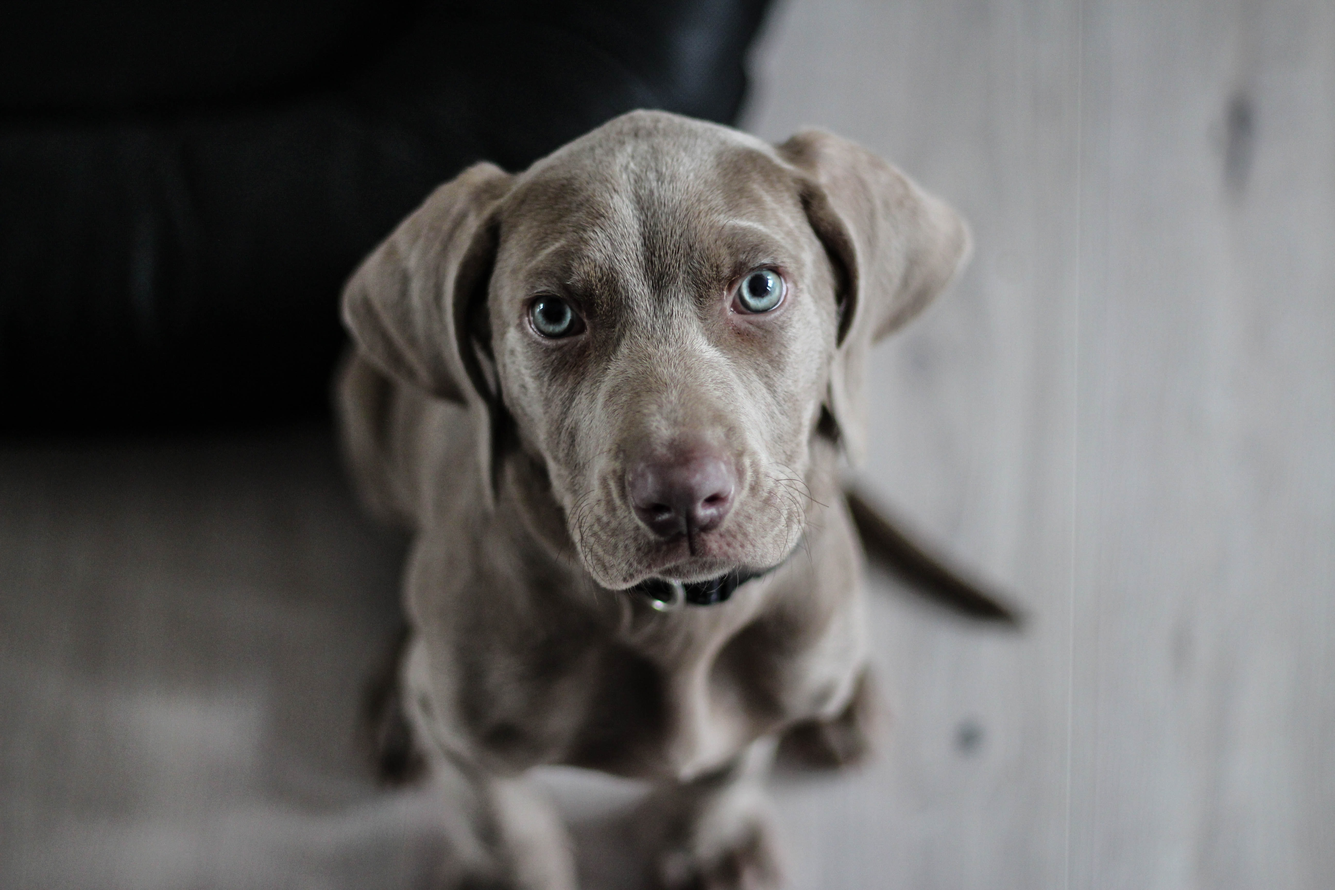
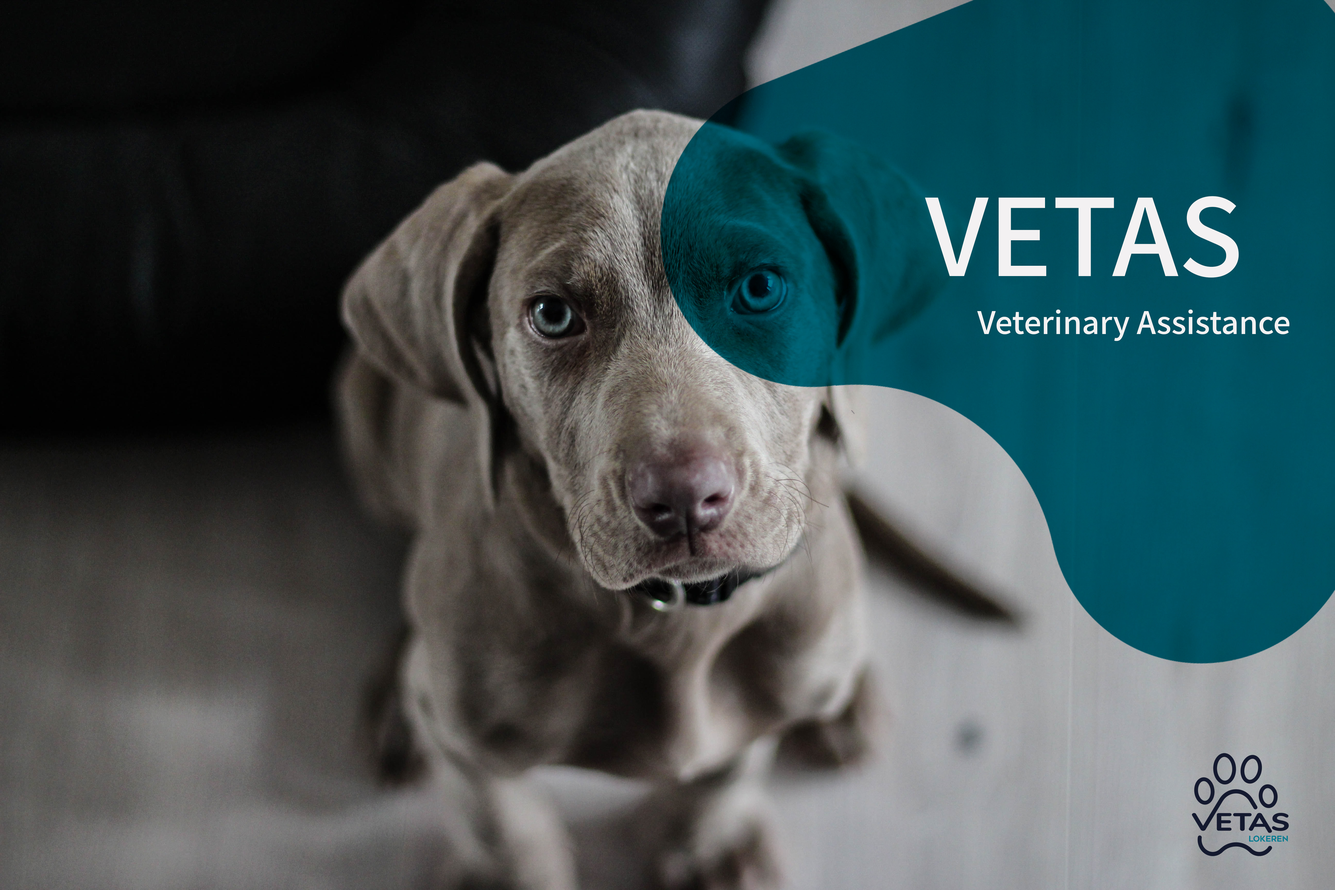
test

Changed region(s): [[0.4688, 0.0, 1.0, 0.75], [0.875, 0.8438, 0.9688, 0.9688]]

diff --git a/pages/index.html b/pages/index.html
@@ -19,20 +19,51 @@ permalink: /
 				  </a>
 	  </div>
 	  <div id="full">
-		  <h3>Merkverhaal</h3>
-		  <p class="">Vetas is een organisatie waar u steeds op kan rekenen wanneer uw dier in problemen zit.</p>
+		  <h2 class="home_titel1">Merkverhaal</h2>
+		  	<p class="">Vetas is een organisatie waar u steeds op kan rekenen wanneer uw dier in problemen zit.</p>
+		  	
+		  <hr>
 
-		  <h3>Logo</h3>
-		  <p class="">Vetas is een organisatie waar u steeds op kan rekenen wanneer uw dier in problemen zit.</p>
+		  <h2 class="home_titel2">Logo</h2>
+			  <p class="">Vind hier meer uitleg over het gebruik van het logo.</p>
+			  <button type="button" class="btn btn-outline-info">
+					<a class="nav-link" href="/1718-3CMO-BaP-ambevanh1/logo/index"  title="logo" >LEES MEER</a>
+			  </button>
+		  <hr>
 
-		  <h3>Kleur</h3>
-		  <p class="">Vetas is een organisatie waar u steeds op kan rekenen wanneer uw dier in problemen zit.</p>
+		  <h2 class="home_titel3">Kleur</h2>
+			  <p class="">Ontdek hier ons kleurenpalet.</p>
+			  <button type="button" class="btn btn-outline-info">
+					<a class="nav-link" href="/1718-3CMO-BaP-ambevanh1/kleur/index"  title="kleur" >LEES MEER</a>
+			  </button>
+		  <hr>
 
-		  <h3>Typografie</h3>
-		  <p class="">Vetas is een organisatie waar u steeds op kan rekenen wanneer uw dier in problemen zit.</p>
+		  <h2 class="home_titel4">Typografie</h2>
+			  <p class="">De typografie geeft vorm aan de betekenis van onze woorden. Lees hier alles over door verder te klikken.</p>
+			  <button type="button" class="btn btn-outline-info">
+					<a class="nav-link" href="/1718-3CMO-BaP-ambevanh1/stijlgids"  title="typografie" >LEES MEER</a>
+			  </button>
+		  <hr>
 
-		  <h3>Toepassingen</h3>
-		  <p class="">Vetas is een organisatie waar u steeds op kan rekenen wanneer uw dier in problemen zit.</p>
+		  <h2 class="home_titel5">Fotografie</h2>
+			  <p class="">Vetas is een organisatie waar u steeds op kan rekenen wanneer uw dier in problemen zit.</p>
+			  <button type="button" class="btn btn-outline-info">
+					<a class="nav-link" href="/1718-3CMO-BaP-ambevanh1/logo/index"  title="logo" >LEES MEER</a>
+			  </button>
+		  <hr>
+
+		  <h2 class="home_titel6">Toepassingen</h2>
+			  <p class="">Vetas is een organisatie waar u steeds op kan rekenen wanneer uw dier in problemen zit.</p>
+			  <button type="button" class="btn btn-outline-info">
+					<a class="nav-link" href="/1718-3CMO-BaP-ambevanh1/logo/index"  title="logo" >LEES MEER</a>
+			  </button>
+		  <hr>
+
+		  <h2 class="home_titel7">Downloads</h2>
+			  <p class="">Download hier het logo en alle varianten.</p>
+			  <button type="button" class="btn btn-outline-info">
+					<a class="nav-link" href="/1718-3CMO-BaP-ambevanh1/logo/index"  title="logo" >LEES MEER</a>
+			  </button>
 
 	  </div> 
 

diff --git a/_sass/_custom.scss b/_sass/_custom.scss
@@ -71,13 +71,88 @@
 }
 
 .home_afbeelding {
-  width: 1350px;
-  margin: 0px -150px;
+  width: 1450px;
+  margin: -66px -390px;
   position: absolute;
   left: 0px;
   top: 0px;
-  z-index: -1;
+  
 }
+
+.home_titel1 {
+  font-size: 45px;
+  margin-top: 150px;
+  margin-bottom: 40px;
+}
+
+.home_titel2 {
+  font-size: 45px;
+  margin-top: 85px;
+  margin-bottom: 40px;
+}
+
+.home_titel3 {
+  font-size: 45px;
+  margin-top: 85px;
+  margin-bottom: 40px;
+}
+
+.home_titel4 {
+  font-size: 45px;
+  margin-top: 85px;
+  margin-bottom: 40px;
+}
+
+.home_titel5 {
+  font-size: 45px;
+  margin-top: 85px;
+  margin-bottom: 40px;
+}
+
+.home_titel6 {
+  font-size: 45px;
+  margin-top: 85px;
+  margin-bottom: 40px;
+}
+
+.home_titel7 {
+  font-size: 45px;
+  margin-top: 85px;
+  margin-bottom: 40px;
+}
+
+/* Button
+---------------------------------------------
+*/
+
+.btn-outline-info {
+  color: #007a8e;
+  background-color: transparent;
+  background-image: none;
+  border-color: #007a8e;
+}
+
+.btn {
+  display: inline-block;
+  font-weight: 400;
+  text-align: center;
+  white-space: nowrap;
+  vertical-align: middle;
+  -webkit-user-select: none;
+  -moz-user-select: none;
+  -ms-user-select: none;
+  user-select: none;
+  border: 2px solid ;
+  padding: 0.375rem 1.75rem;
+  font-size: 1rem;
+  line-height: 1.5;
+  border-radius: .25rem;
+  transition: color .15s ease-in-out,background-color .15s ease-in-out,border-color .15s ease-in-out,box-shadow .15s ease-in-out;
+  margin-bottom: 85px;
+}
+
+
+
 
 /* Arrow
 ---------------------------------------------
@@ -94,6 +169,7 @@
   transform: rotate(45deg);
   transition: border-width 150ms ease-in-out;
   margin-top: 550px;
+  margin-right: 262px;
 }
 
 .arrow:hover {
@@ -114,8 +190,9 @@
 }
 
 #full {
-  height: 100vh;
-  background-color: #transparent
+  height: 265vh;
+  background-color: #transparent;
+  padding-top: 10px;
   
 }
 
